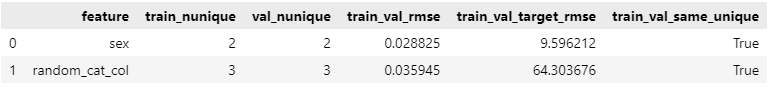
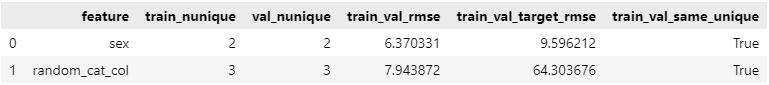
feature+count norm, sort

diff --git a/featdist/base.py b/featdist/base.py
@@ -229,6 +229,7 @@ def categorical_ttt_dist(train=None, test=None, val=None, features=[], target='t
         row_dict = {}
         row_dict['feature'] = feature
         row_dict['train_nunique'] = train[feature].nunique()
+        max_rate = max(train.shape[0], _return_shape(test), _return_shape(val))
 
         if test is not None: 
             diff_test_stats = set(diff_test) - set(test_counts.index)            
@@ -240,7 +241,7 @@ def categorical_ttt_dist(train=None, test=None, val=None, features=[], target='t
             test_group.sort_index(inplace=True)
 
             row_dict['test_nunique'] = test[feature].nunique()
-            row_dict['train_test_rmse'] = np.sqrt(np.sum((train_group[feature+'_count'] - test_group[feature+'_count'])**2))
+            row_dict['train_test_rmse'] = np.sqrt(np.sum((train_group[feature+'_count'] - test_group[feature+'_count'])**2))*max_rate
             row_dict['train_test_same_unique'] = set(train[feature].unique()) == set(test[feature].unique())
 
             if val is not None: 
@@ -253,7 +254,7 @@ def categorical_ttt_dist(train=None, test=None, val=None, features=[], target='t
                 val_group.sort_index(inplace=True)
 
                 row_dict['val_nunique'] = val[feature].nunique()
-                row_dict['val_test_rmse'] = np.sqrt(np.sum((test_group[feature+'_count'] - val_group[feature+'_count'])**2))
+                row_dict['val_test_rmse'] = np.sqrt(np.sum((test_group[feature+'_count'] - val_group[feature+'_count'])**2))*max_rate
                 row_dict['val_test_same_unique'] = set(val[feature].unique()) == set(test[feature].unique())
         
         if val is not None: 
@@ -266,7 +267,7 @@ def categorical_ttt_dist(train=None, test=None, val=None, features=[], target='t
             val_group.sort_index(inplace=True)
 
             row_dict['val_nunique'] = val[feature].nunique()
-            row_dict['train_val_rmse'] = np.sqrt(np.sum((train_group[feature+'_count'] - val_group[feature+'_count'])**2))
+            row_dict['train_val_rmse'] = np.sqrt(np.sum((train_group[feature+'_count'] - val_group[feature+'_count'])**2))*max_rate
             row_dict['train_val_target_rmse'] = np.sqrt(np.sum((train_group[target] - val_group[target])**2))
             row_dict['train_val_same_unique'] = set(train[feature].unique()) == set(val[feature].unique())
         df_stats = df_stats.append(row_dict, ignore_index=True)
@@ -276,8 +277,8 @@ def categorical_ttt_dist(train=None, test=None, val=None, features=[], target='t
     fig.tight_layout()
     plt.show()
     df_stats.dropna(axis=1, inplace=True)
-    if val is not None:  df_stats.sort_values('train_val_rmse', inplace=True)
     if test is not None:  df_stats.sort_values('train_test_rmse', inplace=True)
+    if val is not None:  df_stats.sort_values('train_val_target_rmse', inplace=True)
     return df_stats
 
 
@@ -293,6 +294,13 @@ def _return_max(data, feature):
         return data[feature].max()
     except:
         return -999999
+
+
+def _return_shape(data):
+    try:
+        return data.shape[0]
+    except:
+        return 0
 
 
 def _find_trend_changes(data):
